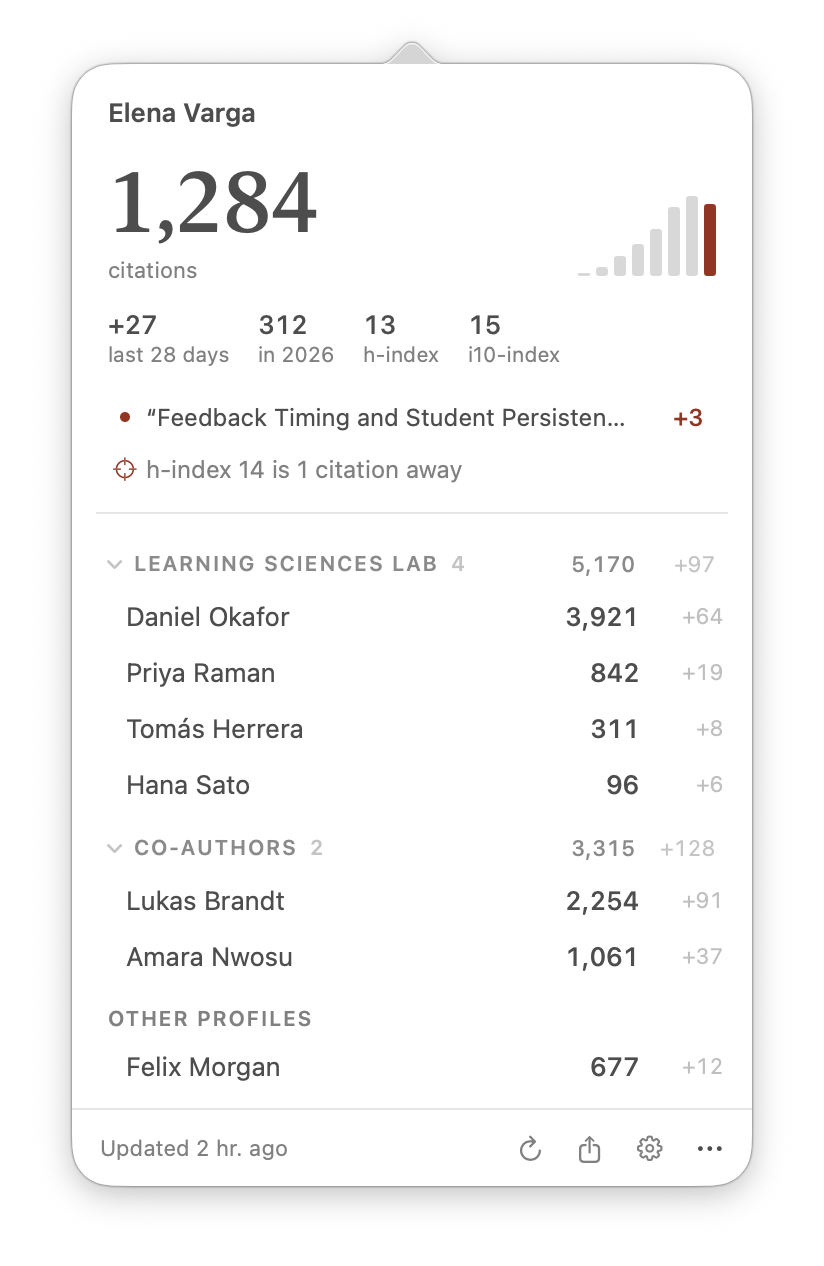
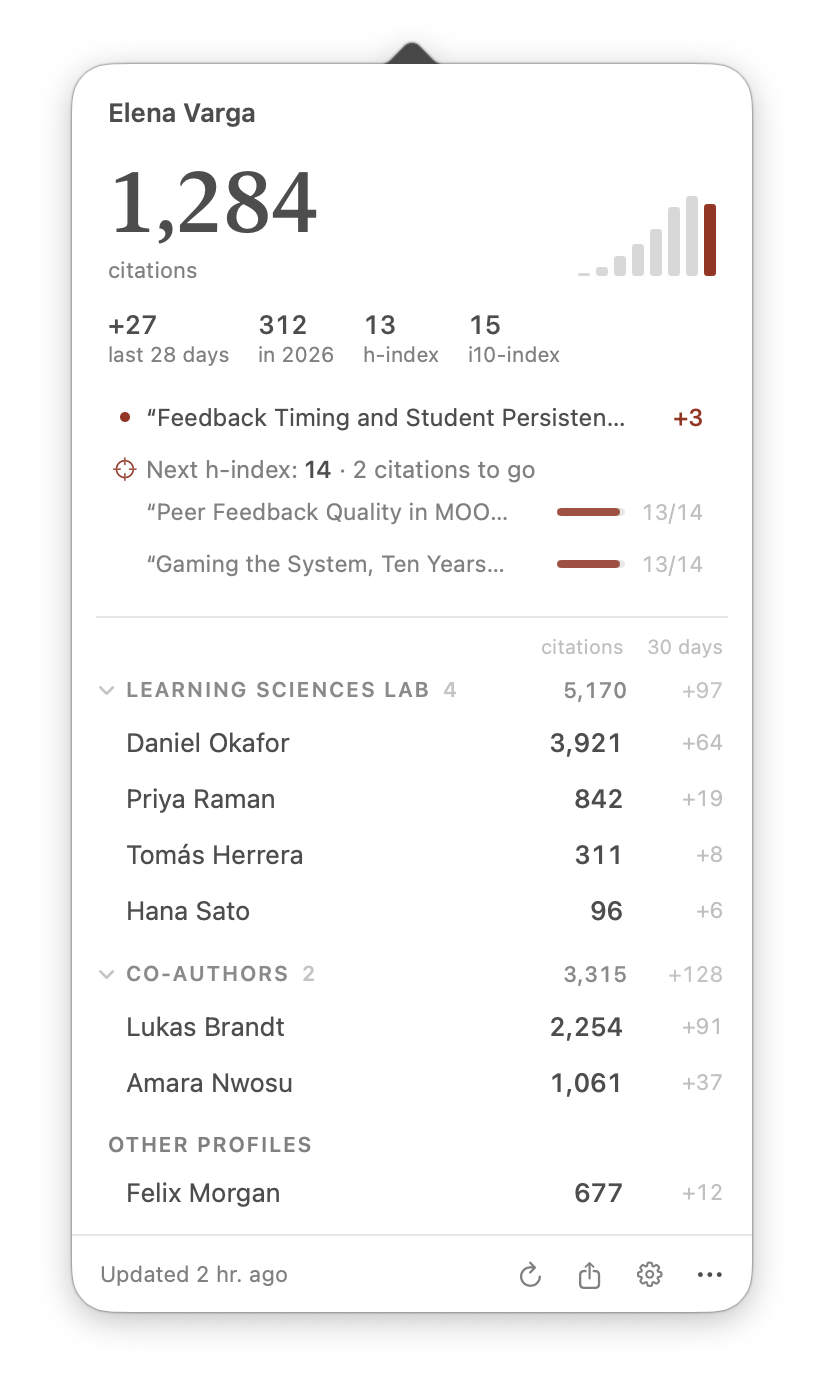
docs(site): describe data portability, backups, and the card preview

diff --git a/website/index.html b/website/index.html
@@ -189,7 +189,7 @@
           </div>
 
           <figure class="hero-shot reveal">
-            <img src="assets/panel.png" width="411" height="594" alt="The CiteBar panel under the menu bar: a profile with 1,284 citations, citations per year, a newly cited paper, the next h-index 1 citation away, and a lab group with combined citations.">
+            <img src="assets/panel.png" width="411" height="694" alt="The CiteBar panel under the menu bar: a profile with 1,284 citations, citations per year, a newly cited paper, the two papers that would lift the h-index to 14, and a lab group with combined citations.">
           </figure>
         </div>
       </div>
@@ -231,8 +231,8 @@
             <div class="feature-icon">
               <svg viewBox="0 0 24 24" fill="none" stroke="currentColor" stroke-width="2" stroke-linecap="round" stroke-linejoin="round"><path d="M12 22s8-4 8-10V5l-8-3-8 3v7c0 6 8 10 8 10z"></path></svg>
             </div>
-            <h3>Private and gentle</h3>
-            <p>Everything stays on your Mac. CiteBar checks once a day by default, retries network hiccups on its own, and backs off when Google Scholar asks.</p>
+            <h3>Private and portable</h3>
+            <p>Everything stays on your Mac, with optional backups to your own iCloud Drive and one-file export when you switch Macs. CiteBar checks once a day and backs off when Google Scholar asks.</p>
           </div>
         </div>
 
@@ -241,7 +241,7 @@
           <div class="showcase-text">
             <p class="showcase-label">Citation Record</p>
             <h3>A card worth sharing.</h3>
-            <p>One click saves a typeset card of your profile: total citations, this year, your h-index, citations per year, and your most cited papers. It is copied too, ready for a milestone post.</p>
+            <p>One click opens a typeset card of your profile: total citations, this year, your h-index, citations per year, and your most cited papers. Share it, copy it, or save it, ready for a milestone post.</p>
           </div>
         </div>
       </div>

diff --git a/README.md b/README.md
@@ -7,7 +7,7 @@
 
   An elegant macOS menu bar app that keeps your Google Scholar citation metrics at your fingertips.
 
-  <img src="website/assets/panel.png" alt="The CiteBar panel: a profile with 1,284 citations, citations per year, a newly cited paper, the next h-index one citation away, and a lab group with combined citations" width="411">
+  <img src="website/assets/panel.png" alt="The CiteBar panel: a profile with 1,284 citations, citations per year, a newly cited paper, the two papers that would lift the h-index to 14, and a lab group with combined citations" width="411">
 
   [![Latest Release](https://img.shields.io/github/v/release/hichipli/CiteBar?style=flat-square)](https://github.com/hichipli/CiteBar/releases)
   [![macOS](https://img.shields.io/badge/macOS-13.0+-blue?style=flat-square)](https://www.apple.com/macos/)
@@ -61,7 +61,8 @@ Having trouble installing? See the [Install Guide](DISTRIBUTION.md).
 - Your citation count lives in the menu bar; click it for the panel
 - Citations per year, this year's count, 30-day growth, h-index, and i10-index
 - See which paper was just cited, and click through to who cited it
-- Know when your next h-index is a few citations away
+- When your next h-index is close, see exactly which papers need citations, and how many each
+- Column labels and hover hints explain every number
 
 **Groups for labs and collaborators**
 - Group profiles into a lab, co-authors, or a cohort, with combined citations and 30-day growth
@@ -74,8 +75,8 @@ Having trouble installing? See the [Install Guide](DISTRIBUTION.md).
 - No "nothing changed" noise
 
 **A citation record worth sharing**
-- One click saves a typeset card of your profile: totals, citations per year, and your most cited papers
-- The card is copied to the clipboard too, ready for a post
+- One click opens a preview of a typeset card: totals, citations per year, and the most cited papers
+- Pick any tracked profile, then Share (AirDrop, Messages, Mail), Copy, or Save to Downloads
 
 <img src="website/assets/stats-card.png" alt="A Citation Record card with 1,284 citations, a citations-per-year chart, and the three most cited papers" width="360">
 
@@ -88,8 +89,12 @@ Having trouble installing? See the [Install Guide](DISTRIBUTION.md).
 **Privacy-first by default**
 - All data stays on your Mac
 - No telemetry
-- No cloud sync
-- No account required
+- No CiteBar servers or accounts
+
+**Your data, portable**
+- Settings › Data shows where data lives (`~/Library/Application Support/CiteBar/`) and how much space it uses
+- Export everything (profiles, groups, settings, full history) to one file and import it on a new Mac; importing only adds, never deletes
+- Optional automatic backup after each refresh to iCloud Drive or any folder you choose, such as Google Drive or Dropbox
 
 **Native macOS experience**
 - Lightweight menu bar presence, light and dark mode

diff --git a/TECHNICAL.md b/TECHNICAL.md
@@ -70,7 +70,10 @@ The integration is designed around public profile pages:
 
 - The citation count is shown in the menu bar; clicking it opens a SwiftUI popover (`PanelView`) fed by `DashboardModel`, which `MenuBarManager` keeps current. Right-click opens a small classic menu.
 - Profiles can carry an optional `group`; the panel and Settings show groups with combined totals.
-- Per-paper counts from the latest refresh are stored in `papers.json` and compared with the next refresh to find newly cited papers and the citations needed for the next h-index.
+- Per-paper counts from the latest refresh are stored in `papers.json` and compared with the next refresh to find newly cited papers. The next h-index step takes the top h+1 papers by citations and lists those still below h+1, which are the papers that would raise the h-index soonest.
+- Data files live in `~/Library/Application Support/CiteBar/`: `settings.json`, `citation_history.json` (compact JSON, up to 1,000 snapshots per profile), and `papers.json`.
+- Export, import, and automatic backups use one JSON archive (`CiteBarArchive`, format 1) holding settings, history, and paper lists. Importing adds missing profiles, merges history without duplicates, and keeps this Mac's paper lists; nothing is deleted.
+- Automatic backups write `CiteBar Backup – <Mac name>.json` after each successful refresh to `~/Library/Mobile Documents/com~apple~CloudDocs/CiteBar` (iCloud Drive) or to a folder the user picks. It is a plain file in the user's own storage, so it needs no server and no iCloud entitlement.
 - Historical trend tracking supports growth indicators.
 - Refresh intervals are user-configurable: every 12 hours, once daily (default), or every 2 days.
 - Settings use an `NSTabViewController` with toolbar tabs, one SwiftUI pane per tab.
